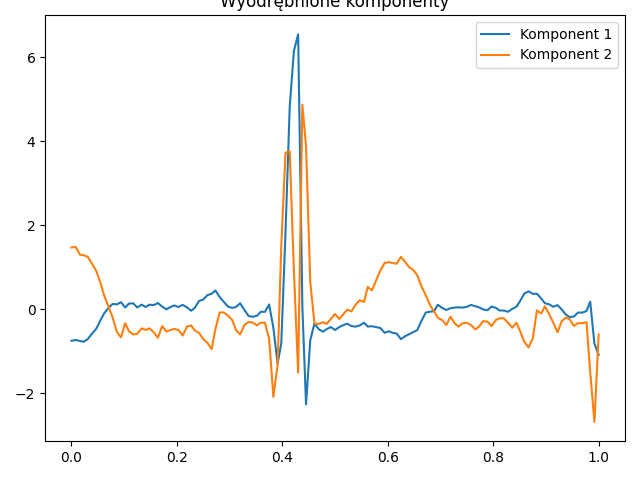
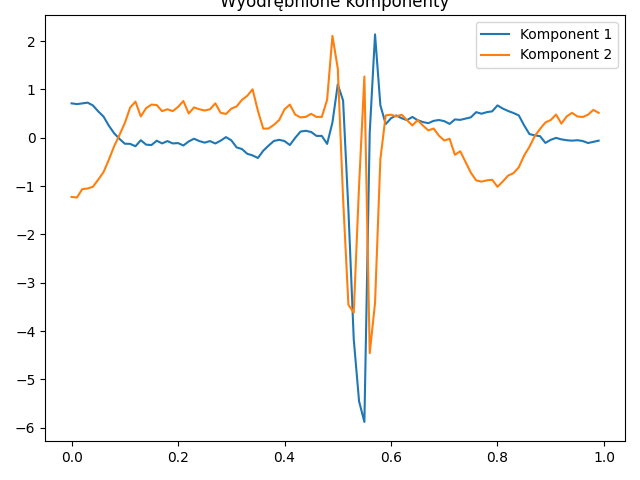
Usunięcie kolizji międy -t a -sn

diff --git a/ica.py b/ica.py
@@ -63,6 +63,10 @@ def remove_components(to_remove, components):
     return components.drop(components.columns[[r - 1 for r in to_remove]], axis=1)
 
 
+def remove_time_from_df(df):
+    return df.drop(df.columns[0], axis=1)
+
+
 def save_cleaned_data_to_file(cleaned_data, filepath):
     cleaned_df = pd.DataFrame(cleaned_data)
     cleaned_df.to_csv(filepath, index=False, header=False, sep=';')
@@ -82,8 +86,12 @@ if __name__ == "__main__":
 
     args = parser.parse_args()
 
-
     df = read_data_from_csv_file(args.source)
+
+    if args.t and (args.s or args.n is not None):
+        df = remove_time_from_df(df)
+        args.t = False
+
     time_df, eeg_data = prepare_input_dataframe(df, args.t, args.s, args.n)
     make_oscillogram_from_data(time_df, eeg_data, args.d, "input")
     components = fast_ica(eeg_data)
